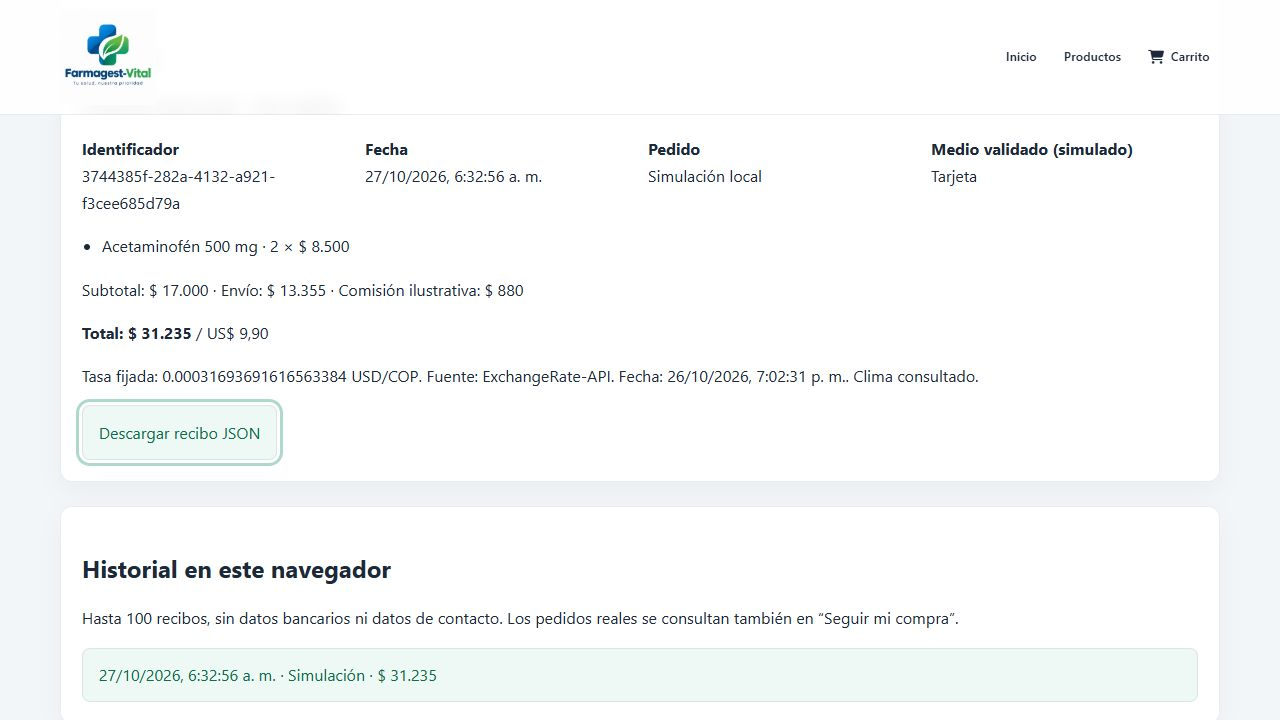
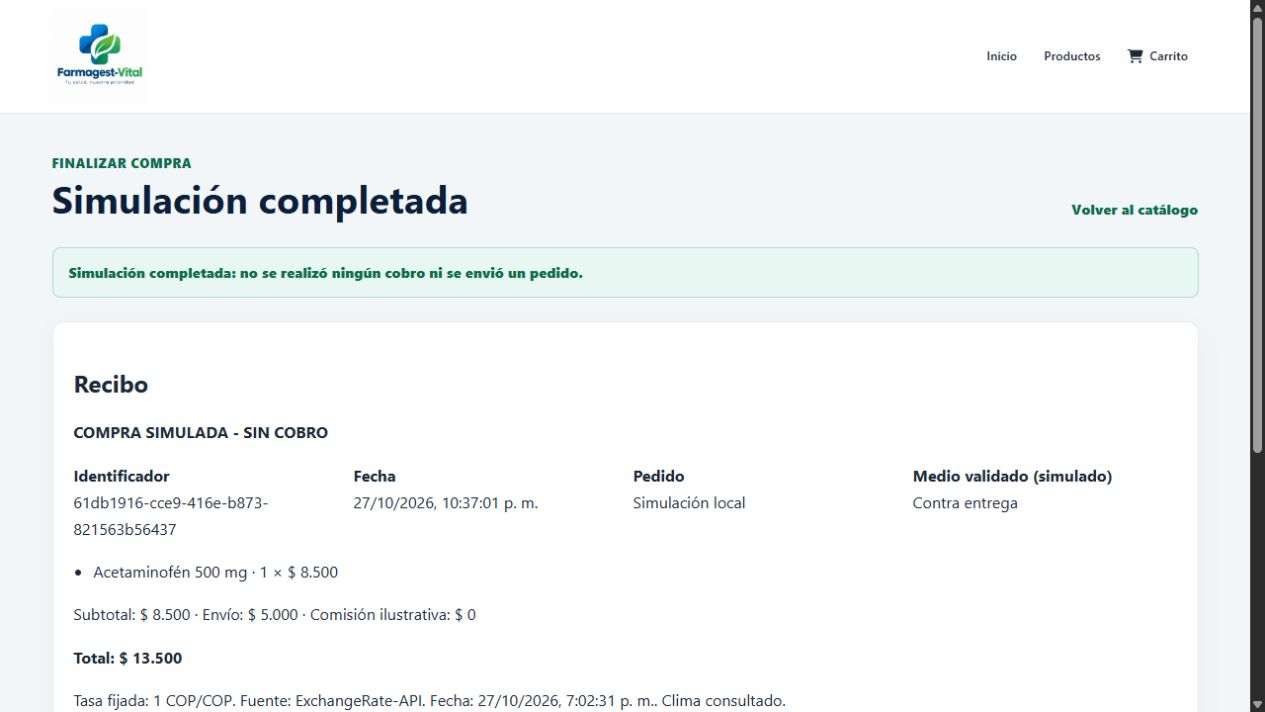
fix(checkout): preserve receipt view after order confirmation

diff --git a/frontends/js/ui/CheckoutUI.js b/frontends/js/ui/CheckoutUI.js
@@ -15,6 +15,7 @@ export class CheckoutUI {
   #busy = false;
   #cotizando = false;
   #receipt = null;
+  #completado = false;
   constructor() {
     this.#form = document.getElementById("formShop");
     this.#historial = new ServicioHistorial(localStorage);
@@ -39,6 +40,7 @@ export class CheckoutUI {
   invalidar() {
     this.#revision++;
     this.#quote = null;
+    if (!this.#busy && getCartModel().cantidad) this.#completado = false;
     document.getElementById("quoteStatus").textContent =
       "Cotiza el pedido para conocer envío, comisión y conversión.";
     this.render();
@@ -60,6 +62,22 @@ export class CheckoutUI {
    */
   render() {
     const cart = getCartModel();
+    const receipt = this.#receipt?.toJSON();
+    const completed = this.#completado && receipt;
+    document.getElementById("checkoutLayout").hidden = Boolean(completed);
+    document.getElementById("checkoutTitle").textContent = completed
+      ? receipt.pedido ? `Pedido ${receipt.pedido} registrado` : "Simulación completada"
+      : "Datos para completar tu pedido";
+    const backLink = document.getElementById("checkoutBackLink");
+    backLink.href = completed
+      ? receipt.estado === "simulada" ? "./products.html?modo=demo" : "./products.html"
+      : "./carrito.html";
+    backLink.textContent = completed ? "Volver al catálogo" : "Volver al carrito";
+    if (completed) {
+      document.getElementById("btnCreateSale").disabled = true;
+      document.getElementById("quoteButton").disabled = true;
+      return;
+    }
     const data = this.#quote?.cotizacion.toJSON();
     document.getElementById("checkoutSummaryProducts").innerHTML =
       cart.items
@@ -110,7 +128,7 @@ export class CheckoutUI {
    * @returns {Promise<void>} Actualización de la vista o aviso de error.
    */
   async cotizar() {
-    if (this.#busy || this.#cotizando) return;
+    if (this.#busy || this.#cotizando || this.#completado) return;
     this.#cotizando = true;
     this.#quote = null;
     const revision = ++this.#revision;
@@ -150,7 +168,7 @@ export class CheckoutUI {
    */
   async confirmar(event) {
     event.preventDefault();
-    if (this.#busy) return;
+    if (this.#busy || this.#completado) return;
     if (!this.#form.reportValidity()) return;
     this.#busy = true;
     const fields = new FormData(this.#form);
@@ -187,6 +205,7 @@ export class CheckoutUI {
         this.#quote,
       );
       this.#receipt = result.transaccion;
+      this.#completado = true;
       // Do not offer a second submission after a successful backend response, even if storage is full.
       this.#quote = null;
       let warning = result.advertencia;
@@ -228,15 +247,18 @@ export class CheckoutUI {
   recibo(transaction) {
     const data = transaction.toJSON(),
       quote = data.cotizacion;
+    const conversion = quote.moneda === "COP" ? "" : ` / ${new Intl.NumberFormat("es-CO", { style: "currency", currency: quote.moneda }).format(quote.convertido)}`;
     const target = document.getElementById("receiptContent");
     target.innerHTML = `<p><strong>${data.estado === "simulada" ? "COMPRA SIMULADA - SIN COBRO" : "PEDIDO REGISTRADO - PAGO PENDIENTE"}</strong></p>
       <dl class="receipt-grid"><div><dt>Identificador</dt><dd>${escapeHtml(data.id)}</dd></div><div><dt>Fecha</dt><dd>${escapeHtml(new Date(data.fecha).toLocaleString("es-CO"))}</dd></div>
       <div><dt>Pedido</dt><dd>${escapeHtml(data.pedido || "Simulación local")}</dd></div><div><dt>Medio validado (simulado)</dt><dd>${escapeHtml(data.metodo)}</dd></div></dl>
       <ul>${data.items.map((item) => `<li>${escapeHtml(item.name)} · ${item.quantity} × ${formatCurrency(item.price)}</li>`).join("")}</ul>
       <p>Subtotal: ${formatCurrency(quote.subtotal)} · Envío: ${formatCurrency(quote.envio)} · Comisión ilustrativa: ${formatCurrency(quote.comision)}</p>
-      <p><strong>Total: ${formatCurrency(quote.total)}</strong> / ${new Intl.NumberFormat("es-CO", { style: "currency", currency: quote.moneda }).format(quote.convertido)}</p>
+      <p><strong>Total: ${formatCurrency(quote.total)}</strong>${conversion}</p>
       <p>Tasa fijada: ${escapeHtml(quote.tasa)} ${escapeHtml(quote.moneda)}/COP. Fuente: ${escapeHtml(quote.fuenteTasa)}. Fecha: ${escapeHtml(new Date(quote.fechaTasa).toLocaleString("es-CO"))}. ${quote.respaldoClima ? "Clima de respaldo." : "Clima consultado."}</p>`;
     document.getElementById("receiptSection").hidden = false;
+    document.getElementById("newPurchaseLink").href = data.estado === "simulada"
+      ? "./products.html?modo=demo" : "./products.html";
   }
   historial() {
     const target = document.getElementById("transactionHistory");
@@ -253,7 +275,10 @@ export class CheckoutUI {
       button.textContent = `${new Date(data.fecha).toLocaleString("es-CO")} · ${data.pedido || "Simulación"} · ${formatCurrency(transaction.total)}`;
       button.addEventListener("click", () => {
         this.#receipt = transaction;
+        this.#completado = !getCartModel().cantidad;
         this.recibo(transaction);
+        this.render();
+        document.getElementById("receiptSection").scrollIntoView({ behavior: "smooth", block: "start" });
       });
       target.append(button);
     }
@@ -306,6 +331,14 @@ export class CheckoutUI {
     this.render();
     this.historial();
     await hydrateCart();
+    if (!getCartModel().cantidad) {
+      const last = this.#historial.listar()[0];
+      if (last) {
+        this.#receipt = last;
+        this.#completado = true;
+        this.recibo(last);
+      }
+    }
     this.render();
   }
 }

diff --git a/frontends/ecommerce/formularyOfShoip.html b/frontends/ecommerce/formularyOfShoip.html
@@ -5,7 +5,7 @@
     <meta name="viewport" content="width=device-width, initial-scale=1.0" />
     <title>Finalizar compra | Farmagest Vital</title>
     <link rel="stylesheet" href="../css/style.css?v=1" />
-    <link rel="stylesheet" href="../css/checkout.css?v=3" />
+    <link rel="stylesheet" href="../css/checkout.css?v=4" />
     <link
       rel="stylesheet"
       href="https://cdnjs.cloudflare.com/ajax/libs/font-awesome/6.7.2/css/all.min.css"
@@ -35,17 +35,17 @@
       <div class="checkout-heading">
         <div>
           <p>Finalizar compra</p>
-          <h1>Datos para completar tu pedido</h1>
+          <h1 id="checkoutTitle">Datos para completar tu pedido</h1>
         </div>
-        <a href="./carrito.html">
+        <a href="./carrito.html" id="checkoutBackLink">
           <i class="fa-solid fa-arrow-left" aria-hidden="true"></i>
           Volver al carrito
         </a>
       </div>
 
-      <div class="checkout-layout">
+      <p class="checkout-message" id="checkoutMessage" role="status" aria-live="polite" hidden></p>
+      <div class="checkout-layout" id="checkoutLayout">
         <form action="" id="formShop" class="checkout-form">
-          <p class="checkout-message" id="checkoutMessage" hidden></p>
           <p class="checkout-mode" id="purchaseMode" role="status"></p>
 
           <section class="checkout-card">
@@ -263,11 +263,12 @@
         </aside>
       </div>
       <section id="receiptSection" class="checkout-card receipt-section" hidden>
-        <h2>Recibo</h2><div id="receiptContent"></div><button id="downloadReceipt" type="button">Descargar recibo JSON</button>
+        <h2>Recibo</h2><div id="receiptContent"></div>
+        <div class="receipt-actions"><button id="downloadReceipt" type="button">Descargar recibo JSON</button><a id="newPurchaseLink" href="./products.html">Iniciar otra compra</a></div>
       </section>
       <section class="checkout-card receipt-section"><h2>Historial en este navegador</h2><p>Hasta 100 recibos, sin datos bancarios ni datos de contacto. Los pedidos reales se consultan también en “Seguir mi compra”.</p><div id="transactionHistory" class="transaction-history"></div></section>
     </main>
 
-    <script type="module" src="../js/checkout.js?v=4"></script>
+    <script type="module" src="../js/checkout.js?v=5"></script>
   </body>
 </html>

diff --git a/frontends/css/checkout.css b/frontends/css/checkout.css
@@ -76,6 +76,12 @@
   gap: 1rem;
 }
 
+.checkout-layout[hidden], .checkout-message[hidden] { display: none; }
+.checkout-page > .checkout-message { margin-bottom: 1rem; }
+.receipt-section { scroll-margin-top: 130px; }
+.receipt-actions { display: flex; flex-wrap: wrap; align-items: center; gap: 1rem; margin-top: 1rem; }
+.receipt-actions a { color: var(--primary-dark); font-weight: 700; }
+
 .checkout-message {
   margin: 0;
   padding: 0.85rem 1rem;

diff --git a/frontends/js/checkout.js b/frontends/js/checkout.js
@@ -1,4 +1,4 @@
-import { CheckoutUI } from "./ui/CheckoutUI.js?v=2";
+import { CheckoutUI } from "./ui/CheckoutUI.js?v=3";
 
 new CheckoutUI().iniciar().catch((error) => {
   const message = document.getElementById("checkoutMessage");

diff --git a/docs/evidencias/README.md b/docs/evidencias/README.md
@@ -44,7 +44,7 @@ La segunda captura identifica la base `farma_vital` y sus nueve tablas en el pan
 
 Prueba del 27 de octubre de 2026: se agregaron dos productos del catálogo JSON, se cotizó el envío a Bogotá con clima y divisas consultados, se validó una tarjeta ficticia y se generó un recibo. Después se recargó la página y se abrió el recibo desde el historial: conservó el identificador, los importes y la tasa de cambio. También se verificó el diseño a 390 píxeles de ancho sin desbordamiento horizontal.
 
-La captura muestra el formulario limpio tras finalizar, el recibo reconstruido y el historial local. La operación está rotulada **COMPRA SIMULADA - SIN COBRO**; no creó un pedido en MySQL ni efectuó un pago. El recibo JSON no contiene datos de contacto ni datos bancarios.
+La revisión de la vista final se repitió con una unidad de producto, destino Medellín y medios de pago simulados. Las capturas actualizadas muestran la vista final con el recibo reconstruido y el historial local. Tras confirmar, se ocultan el formulario y el resumen del carrito vacío; al recargar permanece el recibo con los mismos importes. La operación está rotulada **COMPRA SIMULADA - SIN COBRO**; no creó un pedido en MySQL ni efectuó un pago. El recibo JSON no contiene datos de contacto ni datos bancarios.
 
 ![Recibo e historial de la compra simulada](recibo-poo.jpg)
 

diff --git a/README.md b/README.md
@@ -178,11 +178,11 @@ Las capturas de la base de datos no demuestran que el formulario mostrado haya g
 
 ### Recibo e historial de la simulación POO
 
-Prueba del 27 de octubre de 2026: compra de productos ficticios, cotización con clima y divisas, validación de tarjeta simulada y recuperación del mismo recibo al recargar. No generó cobros ni registros en MySQL.
+Prueba del 27 de octubre de 2026: compra de productos ficticios, cotización con clima y divisas, validación simulada del medio de pago y recuperación del mismo recibo al recargar. No generó cobros ni registros en MySQL.
 
 ![Detalle del recibo y el historial](docs/evidencias/recibo-poo-detalle.jpg)
 
-Vista completa del formulario, recibo e historial:
+Vista final del recibo y el historial. El formulario y el resumen vacío se ocultan después de confirmar:
 
 ![Recibo e historial de la compra simulada](docs/evidencias/recibo-poo.jpg)
 
